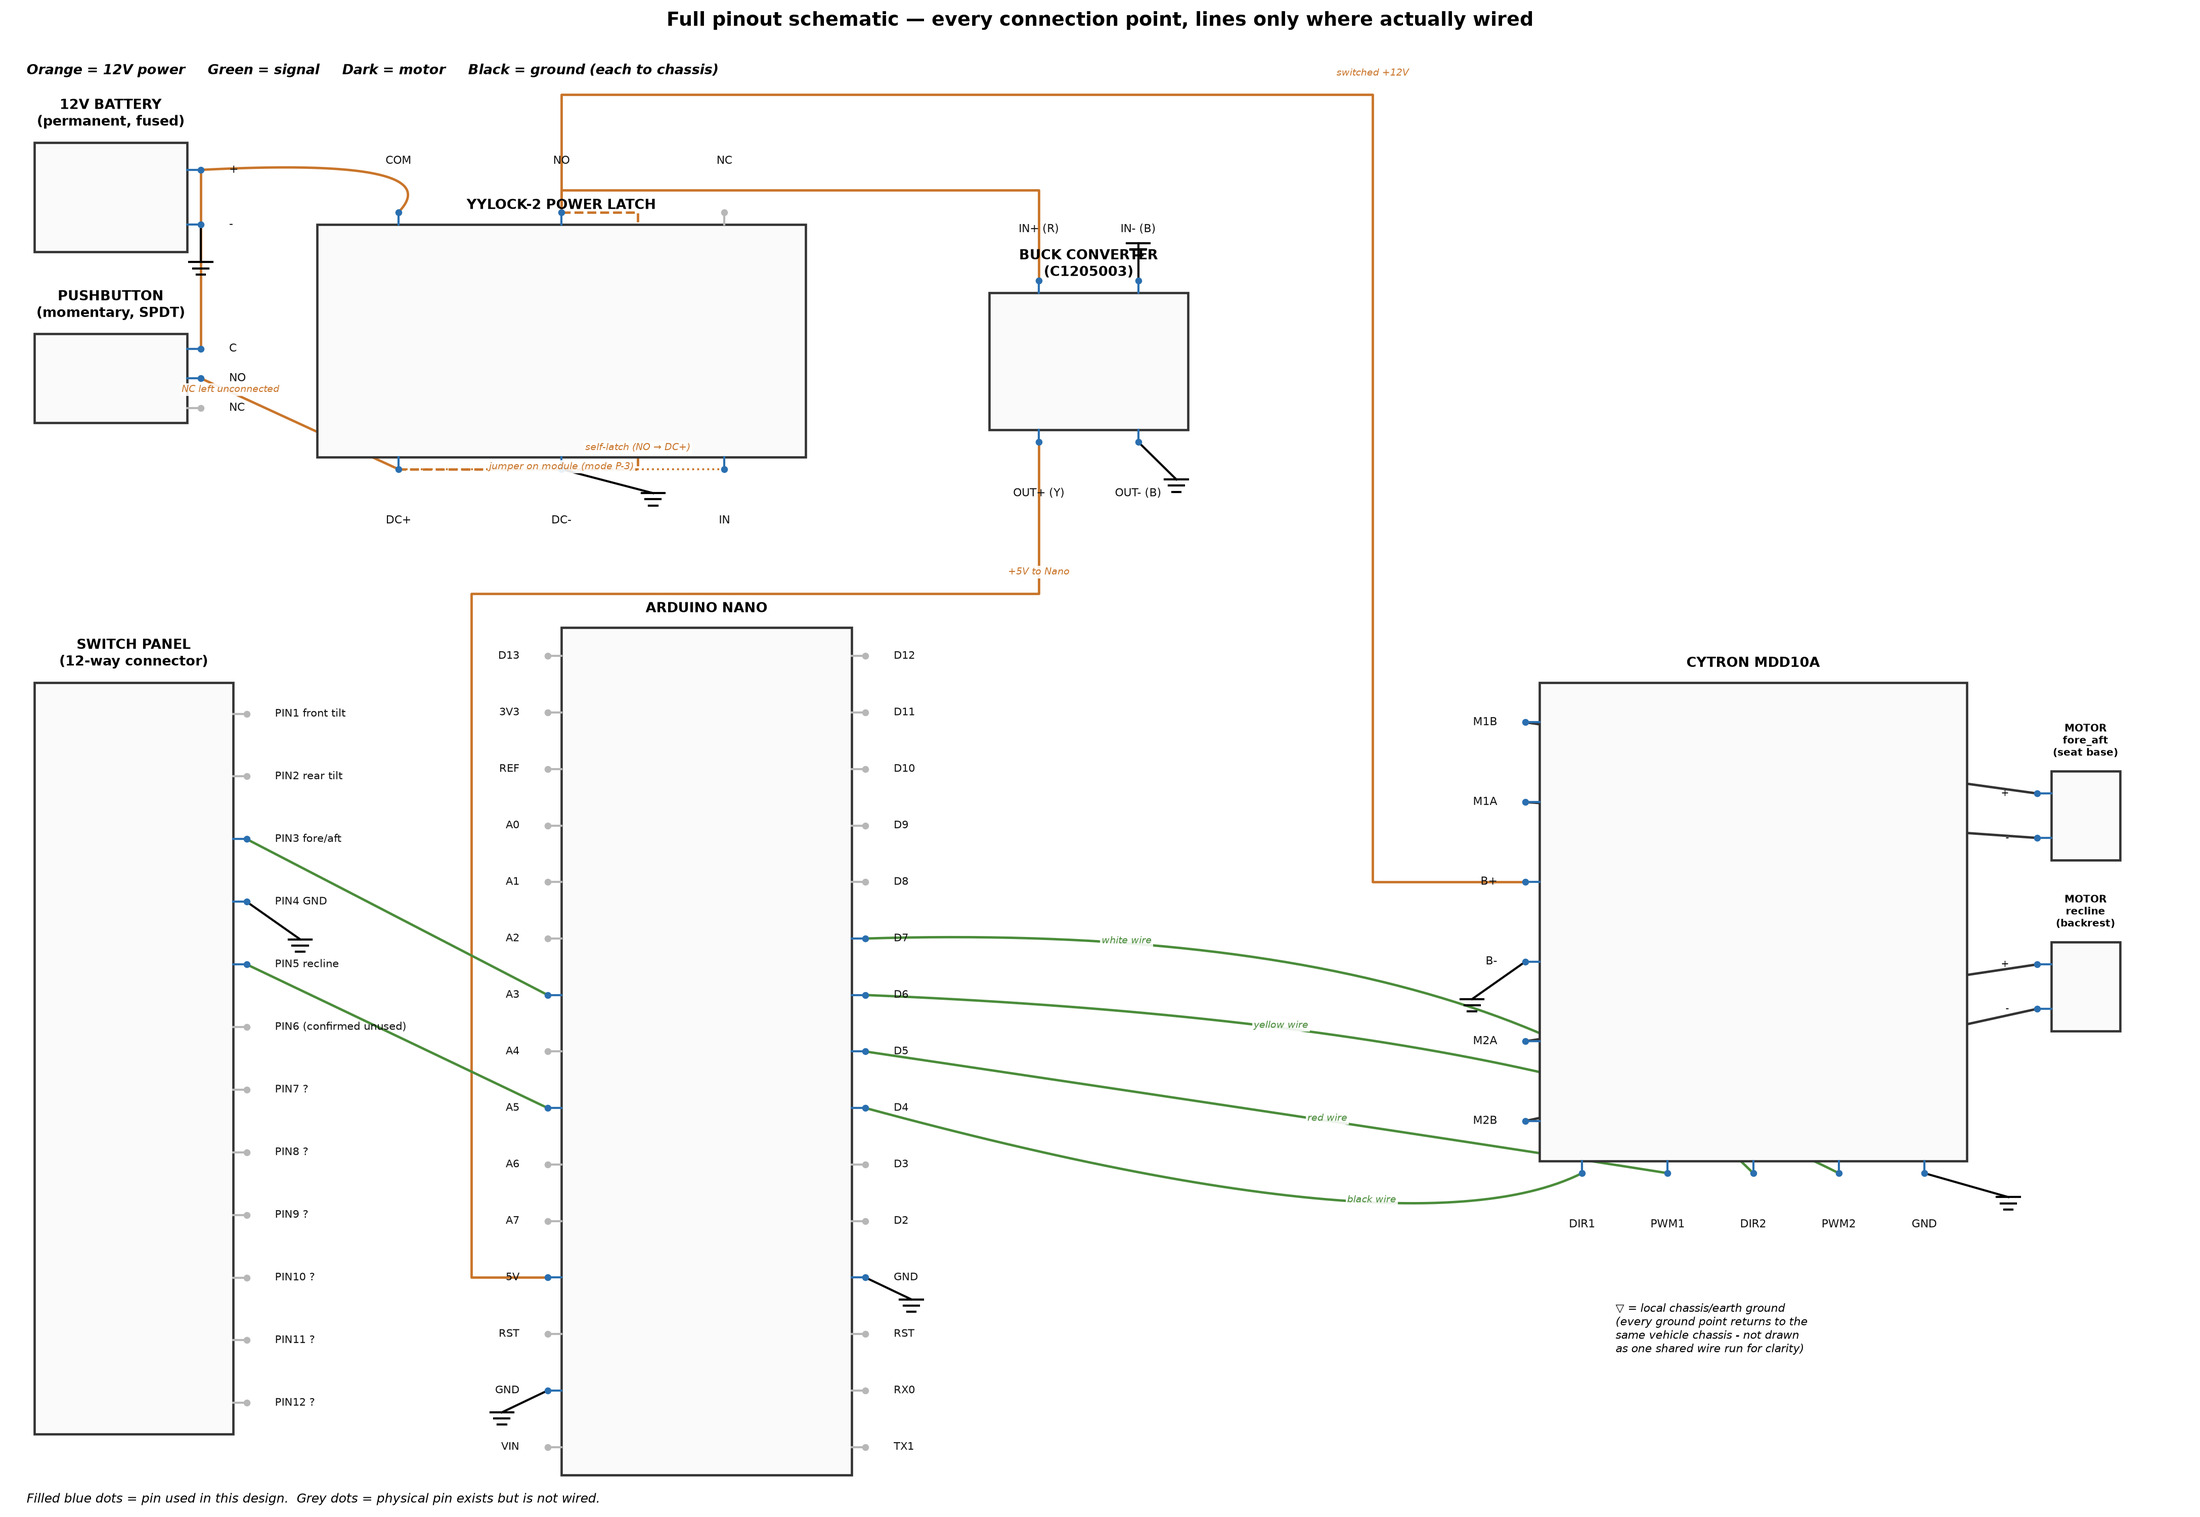
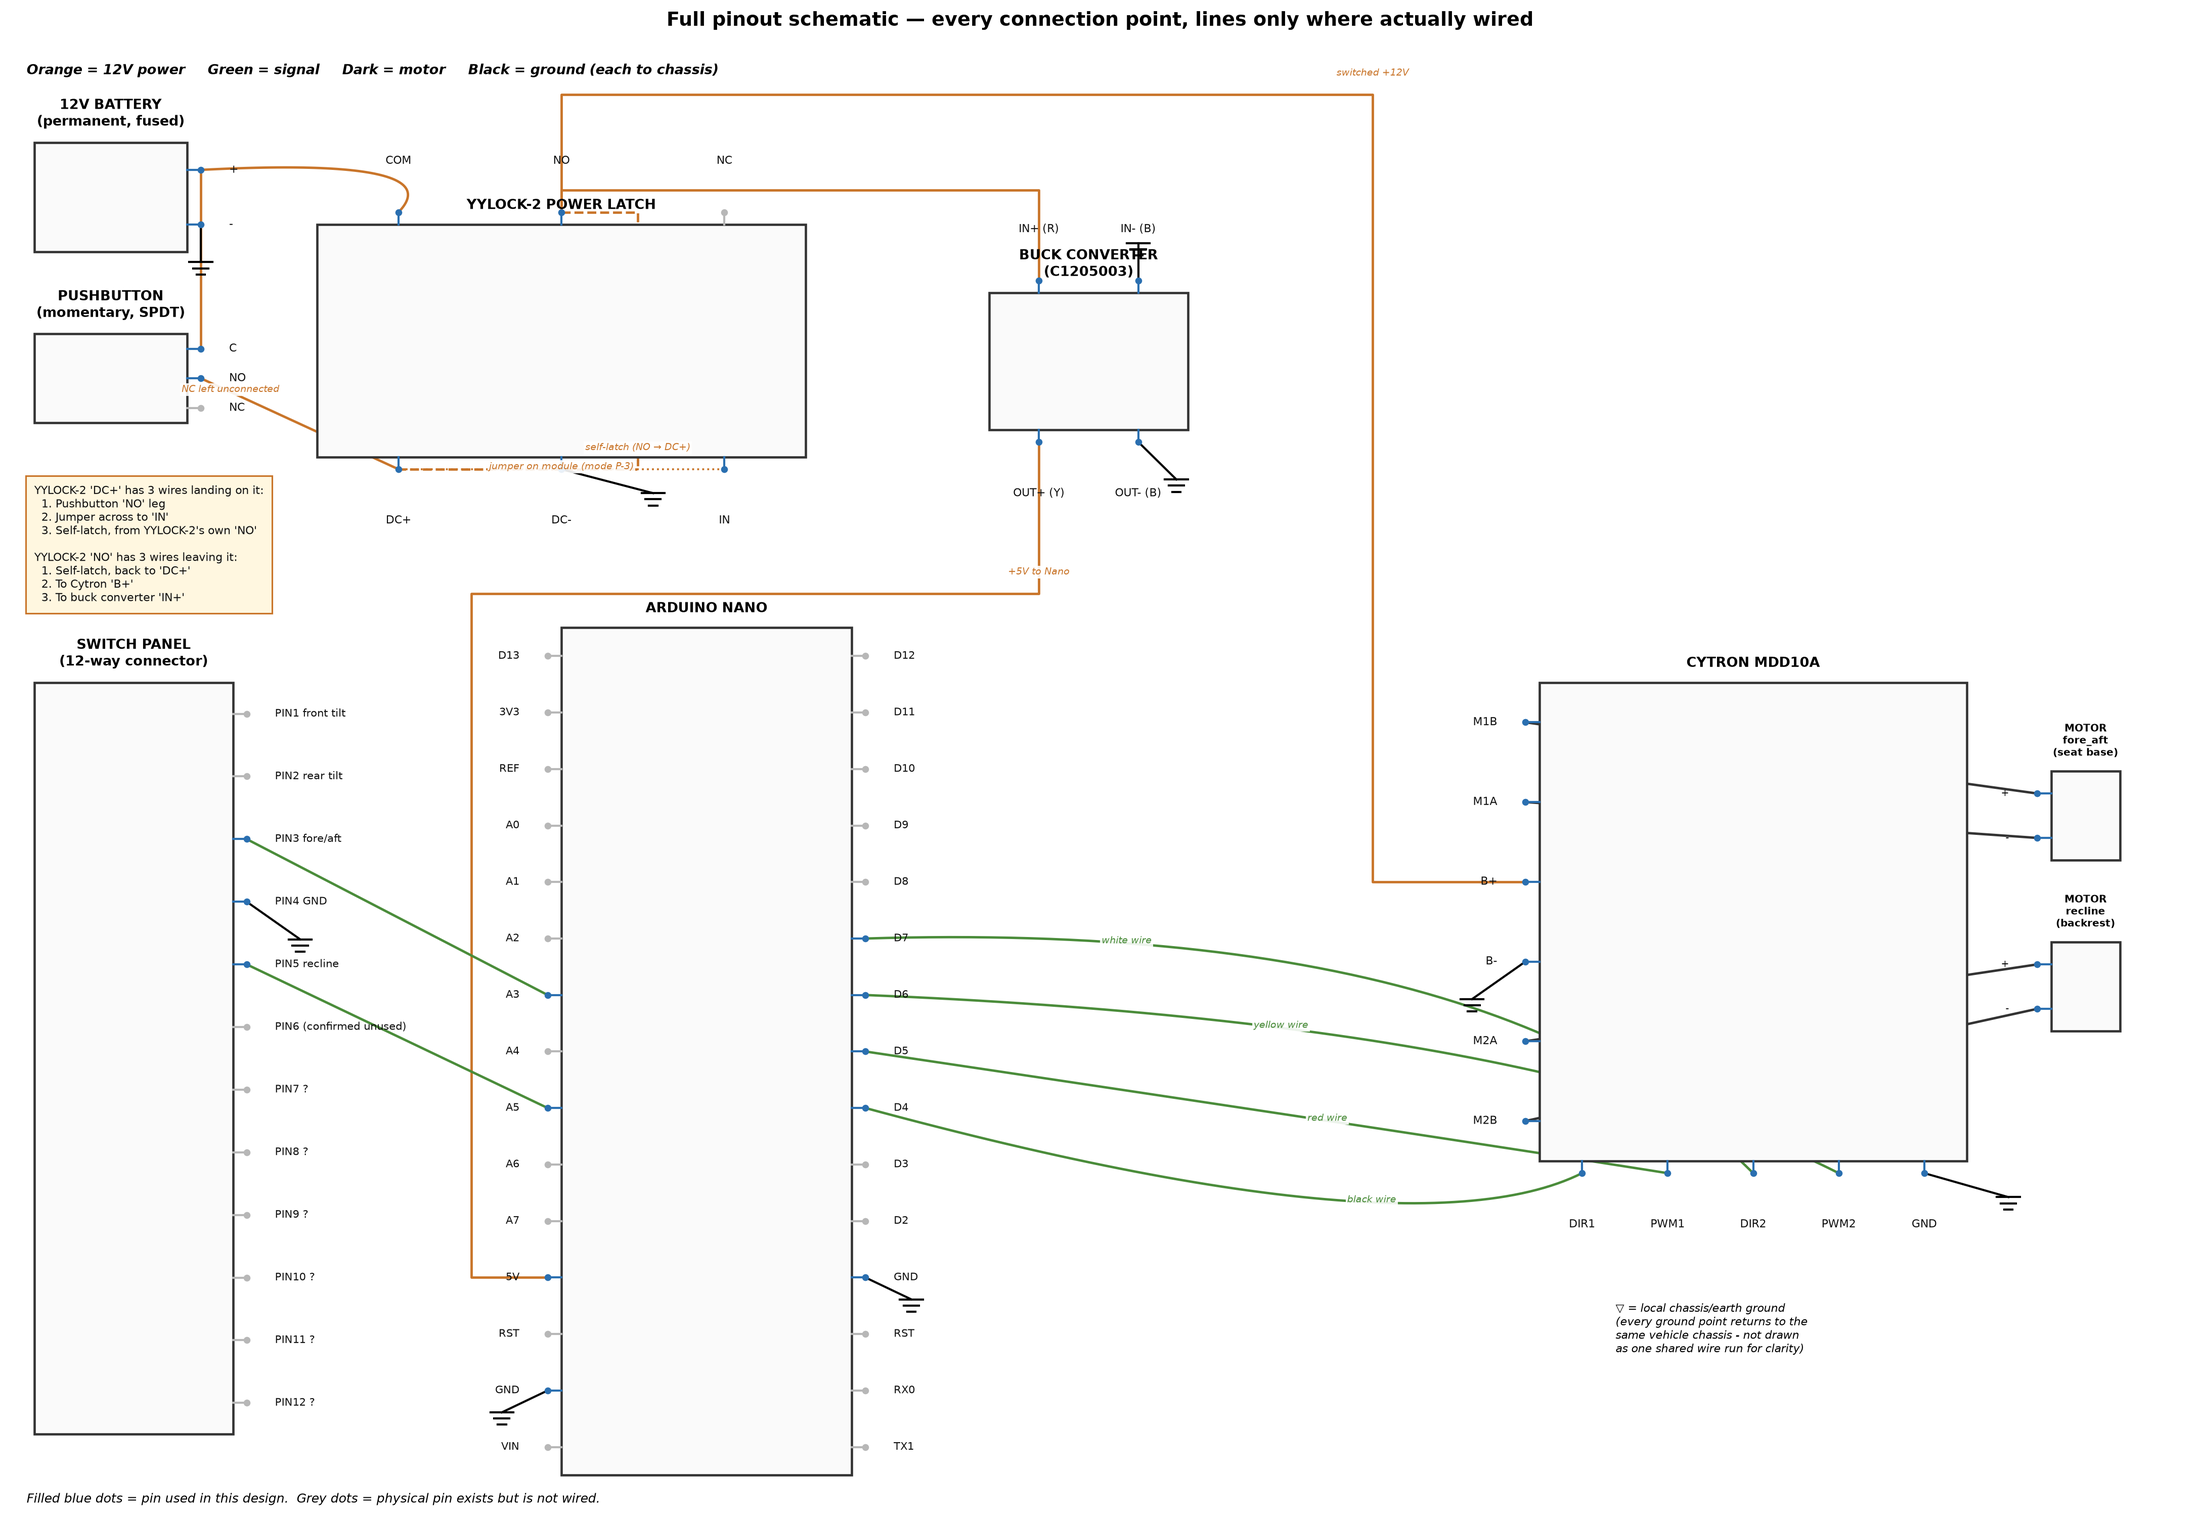
Make the YYLOCK-2 DC+/NO 3-wire junctions explicit on the diagram
Converging lines alone didn't make it obvious that both DC+ and NO
each carry three separate wires - easy to undercount by eye. Adds a
callout box directly on the schematic spelling out both junctions
explicitly, and the same detail in the Power latch section prose.

Changed region(s): [[0.0, 0.3098, 0.1236, 0.4028]]

diff --git a/README.md b/README.md
@@ -315,6 +315,10 @@ switched +12V (from "NO") ---> Cytron B+ and buck converter IN (both fed from he
   parallel with the pushbutton (so releasing the button changes nothing — the module now holds its
   own power on) **and** feeds the buck converter + Cytron `B+` downstream. One 30A-rated contact
   pair does both jobs — no separate main relay needed, unlike the two-stage design this replaces.
+  Concretely, that means `DC+` has **3 wires** landing on it (pushbutton `NO`, the `IN` jumper,
+  and this self-latch wire), and `NO` has **3 wires** leaving it (self-latch back to `DC+`, to
+  Cytron `B+`, to the buck converter's `IN+`) — easy to undercount at a glance in the diagram, so
+  spelled out here and called out directly on the schematic itself.
 - **Auto-off:** when the set delay elapses, the relay opens, cutting its own power and the
   downstream load together — including the Nano. At rest, the pushbutton is open and the module has
   no power on it: draw is genuinely zero.
